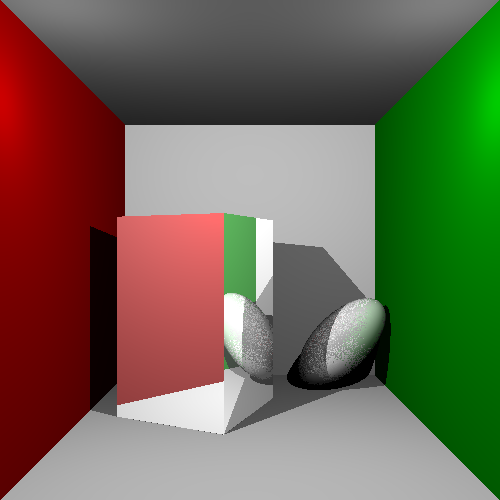
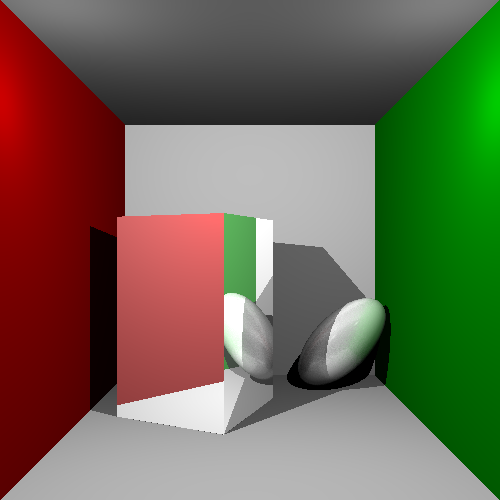
Roughness kind of works

Changed region(s): [[0.6, 0.6, 0.75, 0.78], [0.45, 0.6, 0.54, 0.75]]

diff --git a/Raytracing/Raytracing/src/scene.cpp b/Raytracing/Raytracing/src/scene.cpp
@@ -335,7 +335,7 @@ vec3 Scene::Intersect(const Ray & ray, const int& d )
 			shadow_factor = 0;
 			for (int s = 0; s < samples; s++)
 			{
-				Ray ray{ P + normal * epsilon, glm::normalize(light.bulb.get_random_point() - P) };
+				Ray ray{ P + normal * epsilon, glm::normalize(light.position + sample_sphere() - P) };
 
 				for (int i = 0; i < objects.size(); i++)
 				{
@@ -375,14 +375,26 @@ vec3 Scene::Intersect(const Ray & ray, const int& d )
 		return color;
 
 	vec3 reflected_dir = ray.dir - 2.0f * glm::dot(ray.dir, normal) * normal;
+
+	//Roughnesss
 	if (material.roughness > 0.0f)
 	{
-		//for(int i = 0; i < 50; i++)
-			reflected_dir += sample_sphere(material.roughness);
-	}
+		vec3 reflec_color = vec3(0, 0, 0);
+		for (int i = 0; i < reflection_samples; i++)
+		{
+			Ray reflected_ray{ P + reflected_dir * 0.001f  ,reflected_dir + sample_sphere(material.roughness) };
+			reflec_color += material.roughness * Intersect(reflected_ray, d - 1);
+		}
 
-	Ray reflected_ray{ P + reflected_dir * 0.001f  ,reflected_dir};
-	return glm::clamp(color + R * Intersect(reflected_ray, d - 1), vec3(0.0f, 0.0f, 0.0f), vec3(1.0f, 1.0f, 1.0f));
+		reflec_color /= reflection_samples;
+		return glm::clamp(color + reflec_color, vec3(0.0f, 0.0f, 0.0f), vec3(1.0f, 1.0f, 1.0f));
+	}
+	else
+	{
+
+		Ray reflected_ray{ P + reflected_dir * 0.001f  ,reflected_dir};
+		return glm::clamp(color + R * Intersect(reflected_ray, d - 1), vec3(0.0f, 0.0f, 0.0f), vec3(1.0f, 1.0f, 1.0f));
+	}
 
 	
 }

diff --git a/Raytracing/Raytracing/src/scene.h b/Raytracing/Raytracing/src/scene.h
@@ -68,7 +68,8 @@ public:
 	bool useHS;
 	bool useSS;
 
-	int max_depth = 5;
+	int max_depth = 4;
+	int reflection_samples = 50;
 
 	//Air
 	float air_electric_permittivity;

diff --git a/Raytracing/Raytracing/src/shapes.cpp b/Raytracing/Raytracing/src/shapes.cpp
@@ -257,5 +257,5 @@ vec3 sample_sphere(const float & r)
 	float u = ((double)rand() / (RAND_MAX));
 	float c = std::cbrt(u);
 
-	return randP * r;
+	return randP * u;
 }
